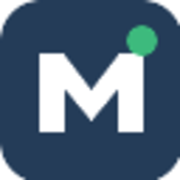
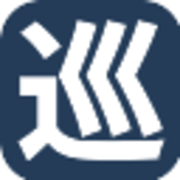
feat(brand): adopt 巡 as the Meguruto brand mark
* feat: adopt Meguruto brand mark

* feat: add brand mark to auth modal

diff --git a/src/shared/components/layout/Navbar.tsx b/src/shared/components/layout/Navbar.tsx
@@ -23,6 +23,7 @@ import { GlobalSearch } from "@/features/search/GlobalSearch";
 import { FeedbackModal } from "@/shared/components/feedback/FeedbackModal";
 import { ReleaseNotesModal } from "@/shared/components/ui/ReleaseNotesModal";
 import { useLocale } from "@/shared/context/LocaleContext";
+import { MegurutoMark } from "@/shared/components/brand/MegurutoMark";
 import { useTranslation } from "react-i18next";
 
 export default function Navbar() {
@@ -117,11 +118,17 @@ export default function Navbar() {
         {/* Logo */}
         <Link
           to="/"
-          className="flex items-center gap-0 font-bold text-xl tracking-tight shrink-0"
+          aria-label="Meguruto home"
+          className="flex items-center gap-2 font-bold text-xl tracking-tight shrink-0"
           onClick={() => setMenuOpen(false)}
         >
-          <span className="text-emerald-600 dark:text-emerald-400">Meguru</span>
-          <span className="text-slate-800 dark:text-slate-200">to</span>
+          <MegurutoMark className="size-7 sm:size-[30px]" />
+          <span className="hidden sm:inline">
+            <span className="text-emerald-600 dark:text-emerald-400">
+              Meguru
+            </span>
+            <span className="text-slate-800 dark:text-slate-200">to</span>
+          </span>
         </Link>
 
         {/* Global Search Bar (Center / Desktop & Mobile icon) */}

diff --git a/src/shared/components/brand/MegurutoMark.tsx b/src/shared/components/brand/MegurutoMark.tsx
@@ -1,0 +1,22 @@
+interface MegurutoMarkProps {
+  className?: string;
+}
+
+export function MegurutoMark({ className }: MegurutoMarkProps) {
+  return (
+    <svg
+      aria-hidden="true"
+      className={className}
+      focusable="false"
+      viewBox="0 0 64 64"
+      xmlns="http://www.w3.org/2000/svg"
+    >
+      <rect width="64" height="64" rx="14" fill="#243C58" />
+      <path
+        fill="#FFFFFF"
+        transform="translate(5 52) scale(0.054 -0.054)"
+        d="M42 756C98 708 165 638 193 589L292 665C260 713 191 779 133 824ZM413 832C390 738 339 590 291 474C360 335 419 180 442 76L559 121C531 213 470 355 407 475C448 578 492 680 527 805ZM608 832C582 738 525 591 472 475C547 335 614 181 640 77L755 123C725 215 657 357 590 475C634 578 683 679 722 804ZM812 832C783 738 721 590 663 474C744 335 816 180 845 76L962 123C928 216 856 357 783 475C832 577 886 677 928 802ZM266 460H38V349H151V130C110 96 65 64 26 38L83 -81C134 -38 175 0 215 40C276 -38 356 -67 476 -72C598 -77 812 -75 936 -69C942 -35 960 20 974 48C835 36 597 34 477 39C375 43 304 72 266 139Z"
+      />
+    </svg>
+  );
+}

diff --git a/src/shared/components/auth/AuthModal.tsx b/src/shared/components/auth/AuthModal.tsx
@@ -1,5 +1,6 @@
 import { useState } from "react";
 import { createPortal } from "react-dom";
+import { MegurutoMark } from "@/shared/components/brand/MegurutoMark";
 import { useAuth } from "@/shared/hooks/useAuth";
 import { useTranslation } from "react-i18next";
 
@@ -68,9 +69,12 @@ export function AuthModal({ isOpen, onClose }: AuthModalProps) {
         <div className="overflow-y-auto min-h-0 flex-1 pt-2">
           {/* Header */}
           <div className="text-center mb-6">
-            <div className="text-2xl font-bold mb-1">
-              <span className="text-emerald-400">Meguru</span>
-              <span className="text-white">to</span>
+            <div className="mb-1 flex items-center justify-center gap-2 text-2xl font-bold">
+              <MegurutoMark className="size-8" />
+              <span>
+                <span className="text-emerald-400">Meguru</span>
+                <span className="text-white">to</span>
+              </span>
             </div>
             <p className="text-xs text-emerald-200/80 mb-2">
               {t("brand.tagline")}

diff --git a/src/shared/components/layout/Footer.tsx b/src/shared/components/layout/Footer.tsx
@@ -1,5 +1,6 @@
 import { Link } from "react-router-dom";
 import { useTranslation } from "react-i18next";
+import { MegurutoMark } from "@/shared/components/brand/MegurutoMark";
 
 export default function Footer() {
   const { t } = useTranslation();
@@ -8,7 +9,8 @@ export default function Footer() {
       <div className="container mx-auto px-4 flex flex-col items-center justify-center text-center gap-4">
         <div>
           <p className="text-sm font-medium text-slate-900 dark:text-slate-100 flex items-center justify-center gap-2">
-            Meguruto{" "}
+            <MegurutoMark className="size-6" />
+            <span>Meguruto</span>
             <span className="text-xs px-1.5 py-0.5 rounded bg-slate-200 dark:bg-slate-800 text-slate-500">
               v{__APP_VERSION__}
             </span>

diff --git a/index.html b/index.html
@@ -2,9 +2,9 @@
 <html lang="en">
   <head>
     <meta charset="UTF-8" />
-    <link rel="icon" type="image/svg+xml" href="/favicon.svg" />
+    <link rel="icon" type="image/svg+xml" href="/favicon.svg?v=2" />
     <meta name="viewport" content="width=device-width, initial-scale=1.0" />
-    <link rel="apple-touch-icon" href="/apple-touch-icon.png" />
+    <link rel="apple-touch-icon" href="/apple-touch-icon.png?v=2" />
     <meta name="theme-color" content="#243C58" />
     <meta
       name="description"
